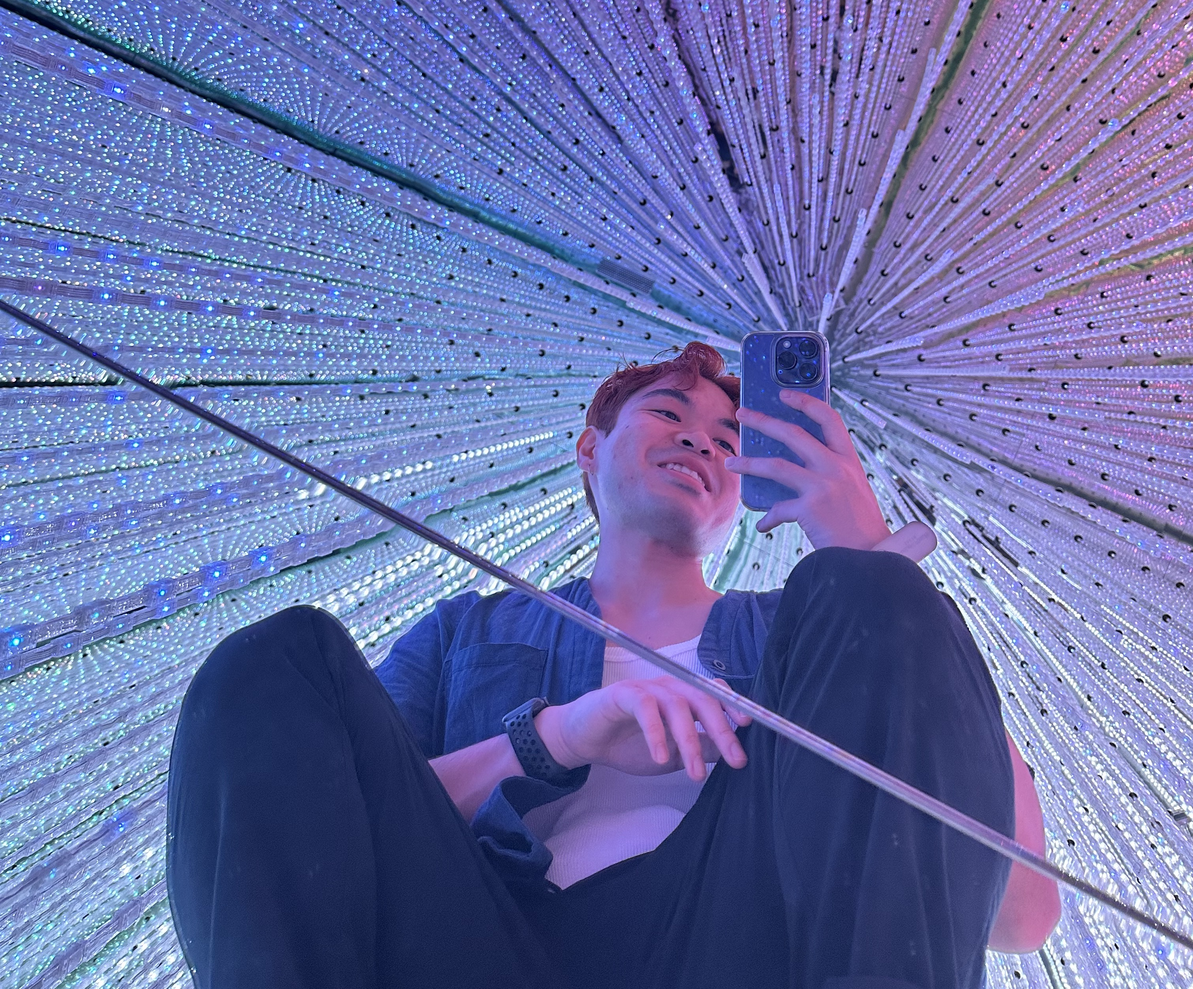
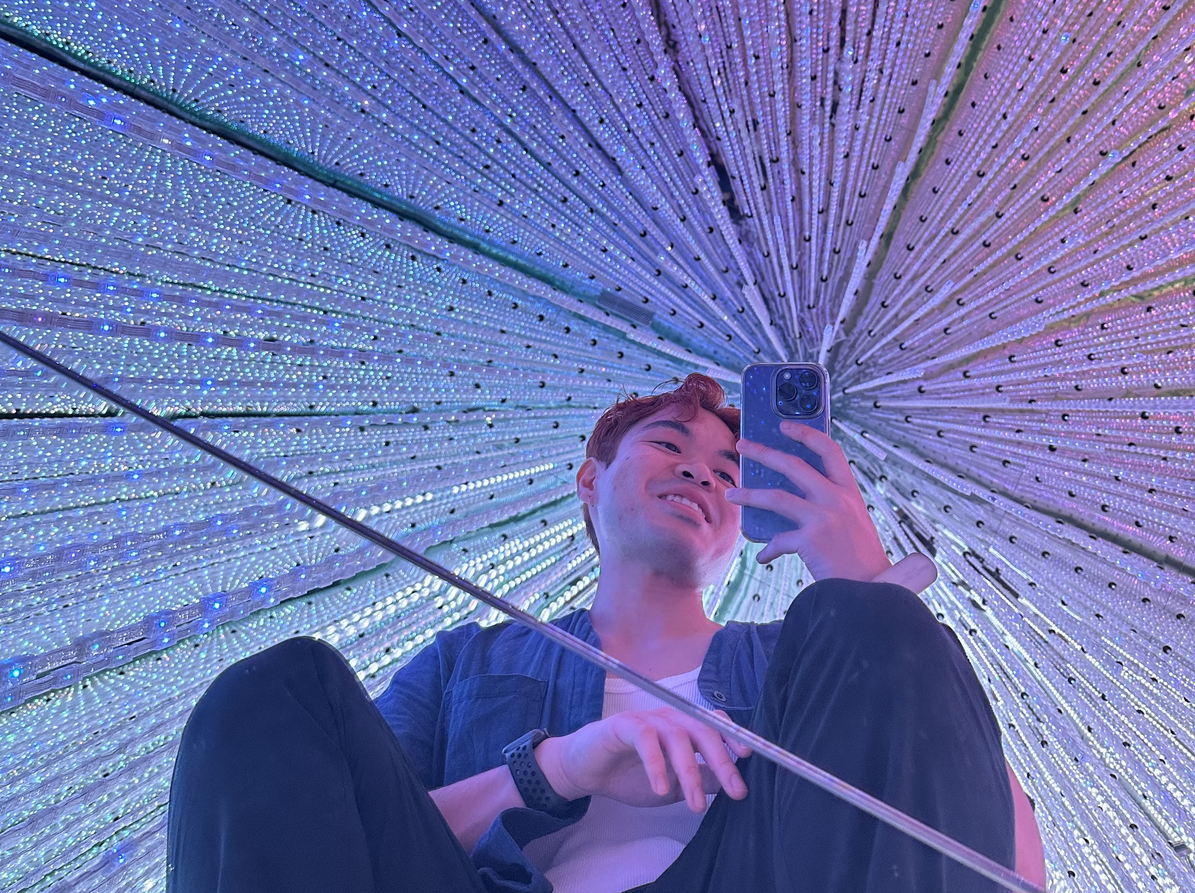
new font and header photo and life motto

diff --git a/css/styles.css b/css/styles.css
@@ -33,7 +33,8 @@
   /* color: rgba(42, 65, 141, 0.839); */
 }
 body {
-  font-family: "DM Sans", sans-serif;
+  font-family: 'Lexend Deca';
+  /* font-weight: 50; */
   font-size: 16px;
 }
 body.active {
@@ -276,7 +277,7 @@ footer {
   height: 100vh;
   min-height: 500px;
   max-height: 1080px;
-  background: url(../images/taketomi.jpeg);
+  background: url(../images/teamlabs-profile.jpeg);
   background-size: cover;
   padding: 20px;
   overflow: hidden;
@@ -295,16 +296,20 @@ footer {
 }
 #lead-content h1 {
   color: #fff;
-  font-weight: 900;
+  /* font-weight: 900; */
+  font-weight: 200;
   font-size: 5em;
+  font-family: 'Lexend Deca';
+  /* font-family: Courier New, monospace; */
   letter-spacing: 0.05em;
   line-height: 0.9em;
 }
 #lead-content h2 {
-  color: #efefef;
-  font-weight: 500;
+  color: #dbb175;
+  font-weight: 100;
   font-size: 2.25em;
-  margin-bottom: 15px;
+  font-family: 'Lexend';
+  margin-bottom: 20px;
 }
 #lead-overlay {
   position: absolute;
@@ -315,7 +320,7 @@ footer {
   bottom: 0;
   left: 0;
   /* header background filter  */
-  background: rgba(38, 46, 81, 0.265);
+  background: rgba(50, 56, 83, 0.034);
   z-index: 1;
 }
 #lead-down {
@@ -670,7 +675,7 @@ footer {
   border-radius: 4px;
   padding: 5px 10px;
   border: none;
-  color: #3498db;
+  color: #efc892;
   font-weight: 700;
   box-shadow: 0 1px 3px rgba(0, 0, 0, 0.12), 0 1px 2px rgba(0, 0, 0, 0.24);
   transition: 0.5s ease all;

diff --git a/index.html b/index.html
@@ -12,6 +12,9 @@
     <link rel="stylesheet" href="libs/font-awesome/css/font-awesome.min.css">
     <link href="css/bootstrap.min.css" rel="stylesheet">
     <link href="css/styles.css" rel="stylesheet">
+    <link href='https://fonts.googleapis.com/css?family=Lexend'>
+    <link href='https://fonts.googleapis.com/css?family=Lexend Deca' rel='stylesheet'>
+    <link href='https://fonts.googleapis.com/css?family=Poppins' rel='stylesheet'>
 </head>
 
 <body>
@@ -52,7 +55,7 @@
         <div id="lead-content">
             <h1>Isaiah Shikina</h1>
             <h2>
-                software engineer / houston, tx
+                God gave me legs so I can walk
             </h2>
             <h3>
                 <a class="social-icon" href="https://www.instagram.com/ishikina/" target="_blank">

diff --git a/scss/styles.scss b/scss/styles.scss
@@ -351,7 +351,7 @@ footer {
   min-height: 500px;
   max-height: 1080px;
   //   background: url(../images/lead-bg.jpg);
-  background: url(../images/dallas.jpeg);
+  background: url(../images/teamlabs-profile.jpeg);
   background-size: cover;
   padding: 15px;
   overflow: hidden;
